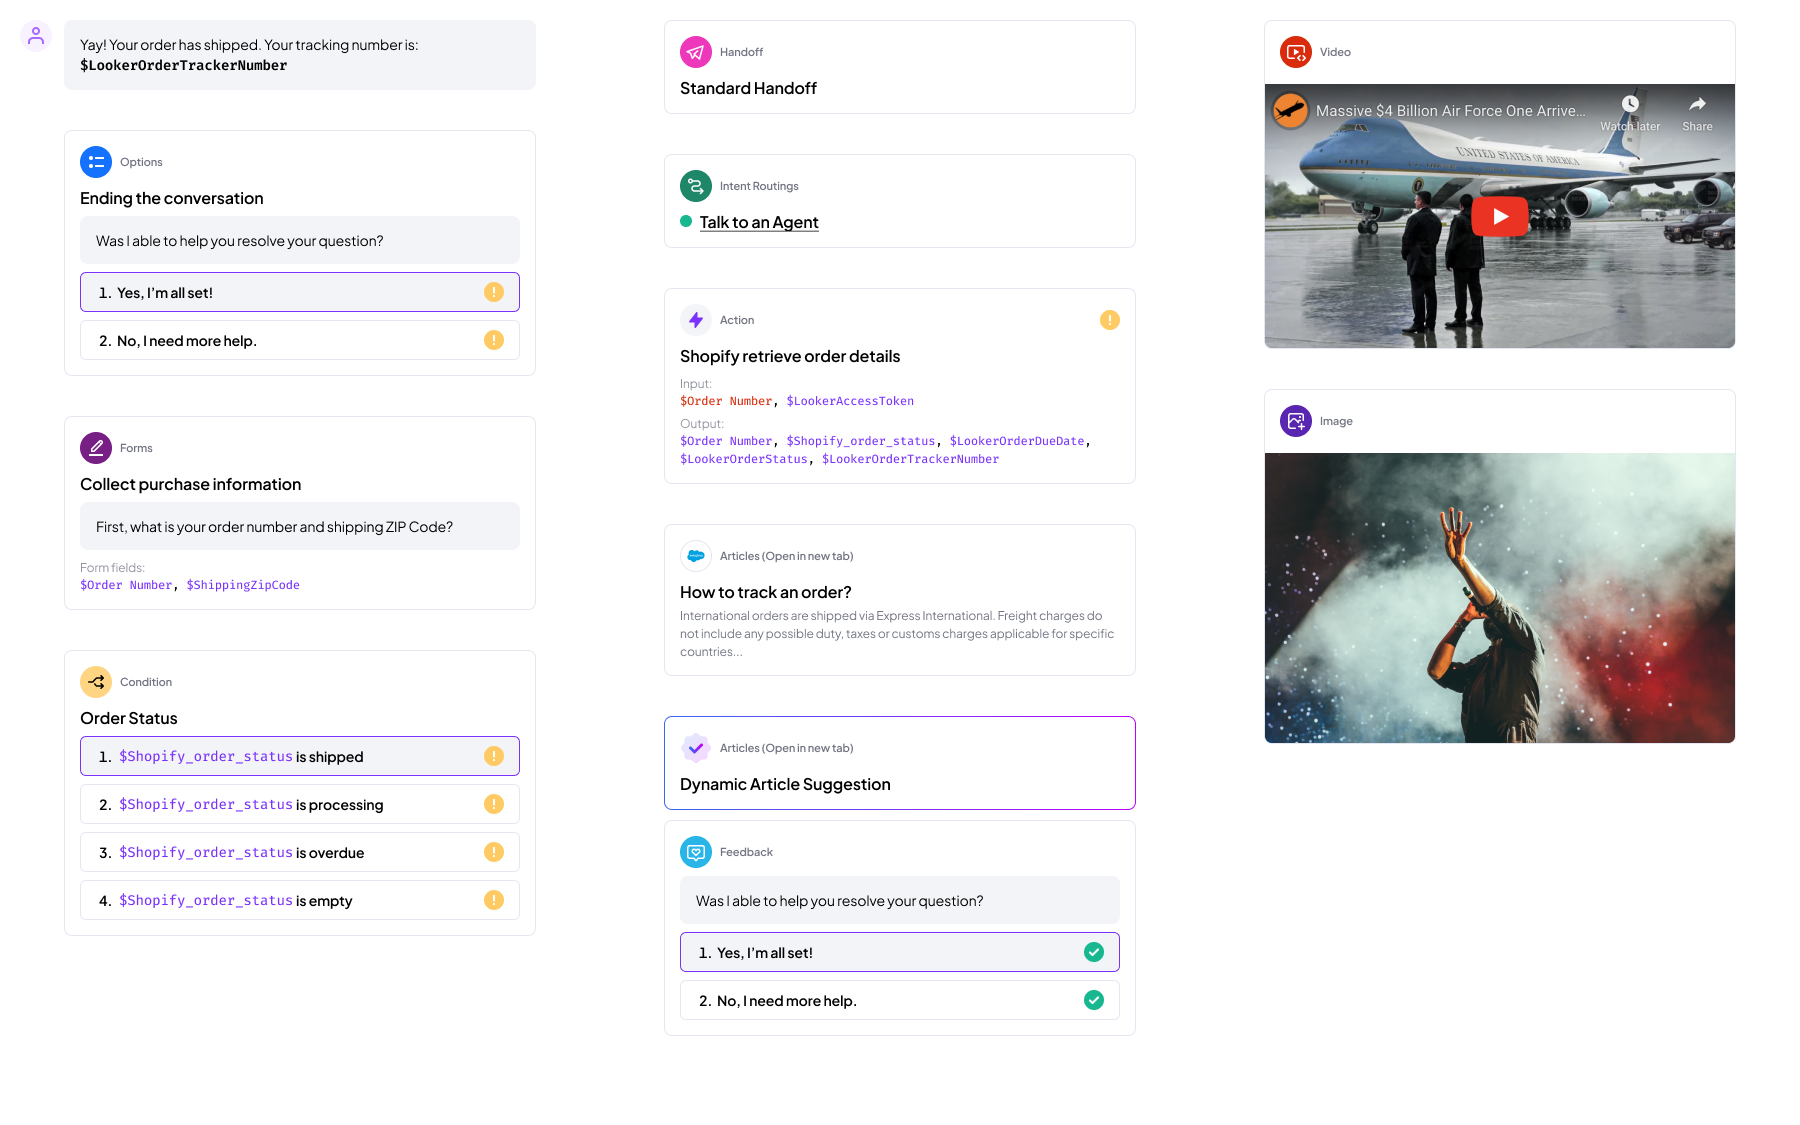
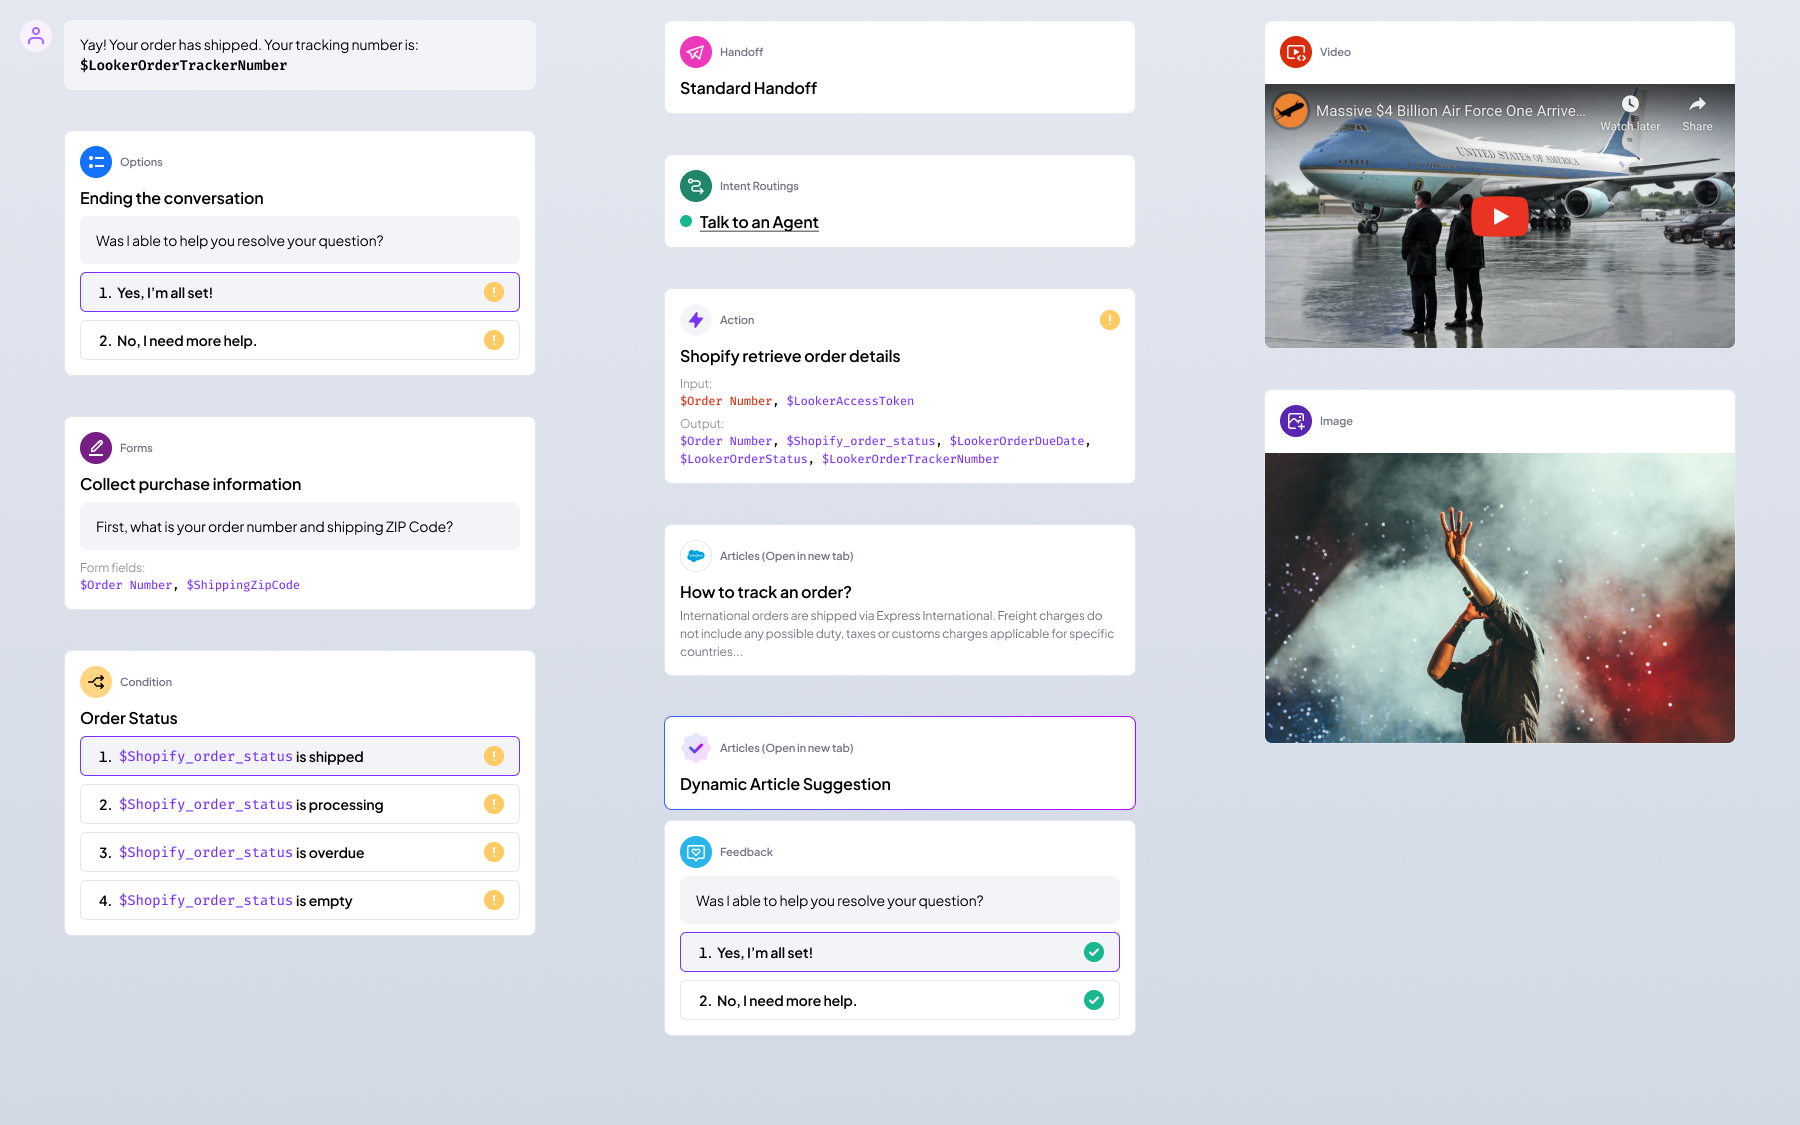
update 3/28

diff --git a/src/app/page.tsx b/src/app/page.tsx
@@ -93,7 +93,7 @@ function BentoSection() {
             title=""
             description=""
             graphic={
-              <div className="h-full bg-[url(/screenshots/ft-solve/builder.png)] bg-contain bg-no-repeat bg-center" />
+              <div className="h-full bg-[url(/screenshots/ft-solve/condition.png)] bg-contain bg-no-repeat bg-center" />
             }
             hoverGraphic={
               <div className="h-full bg-[url(/screenshots/ft-solve/translation.png)] bg-contain bg-no-repeat bg-center" />
